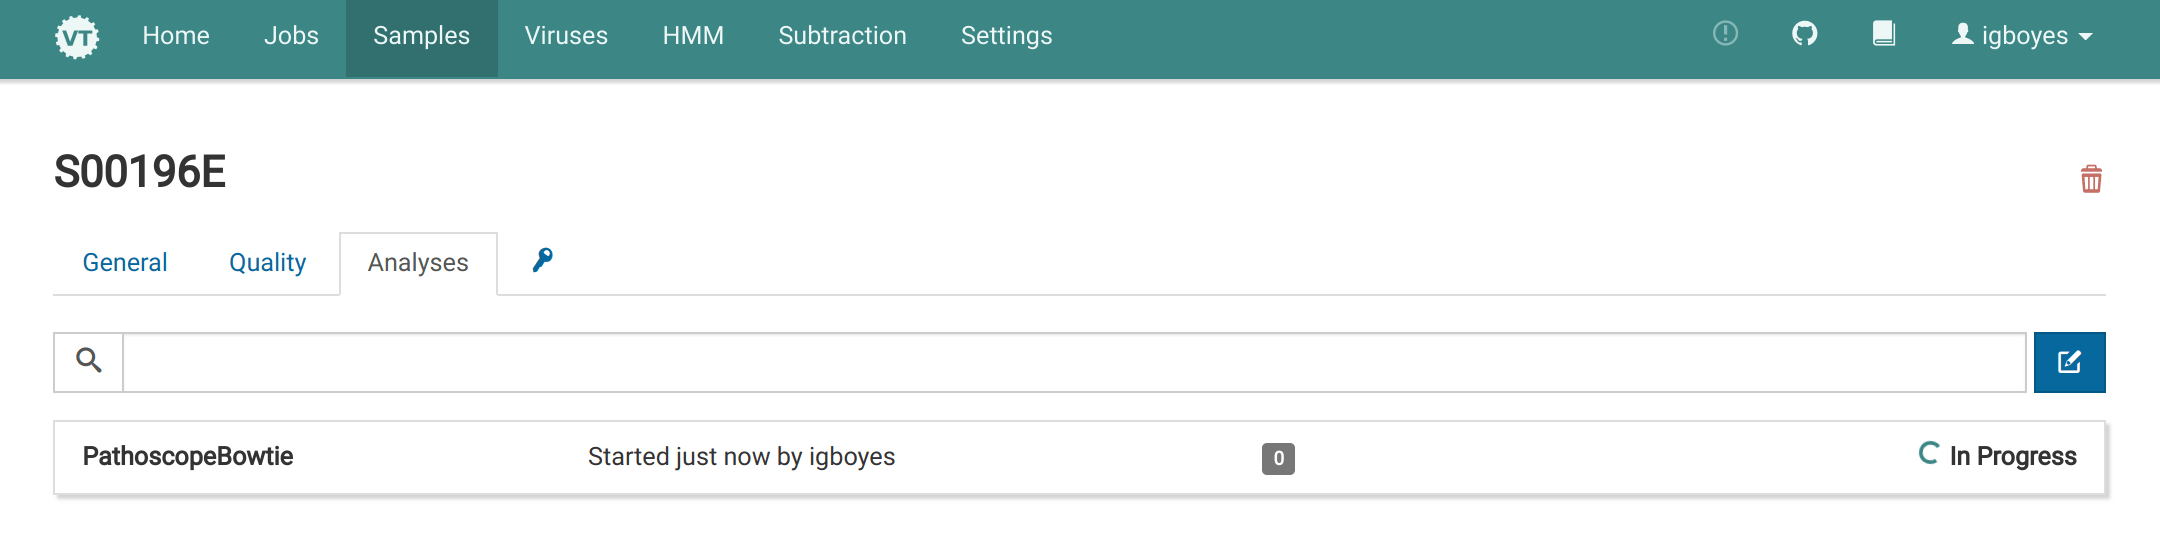
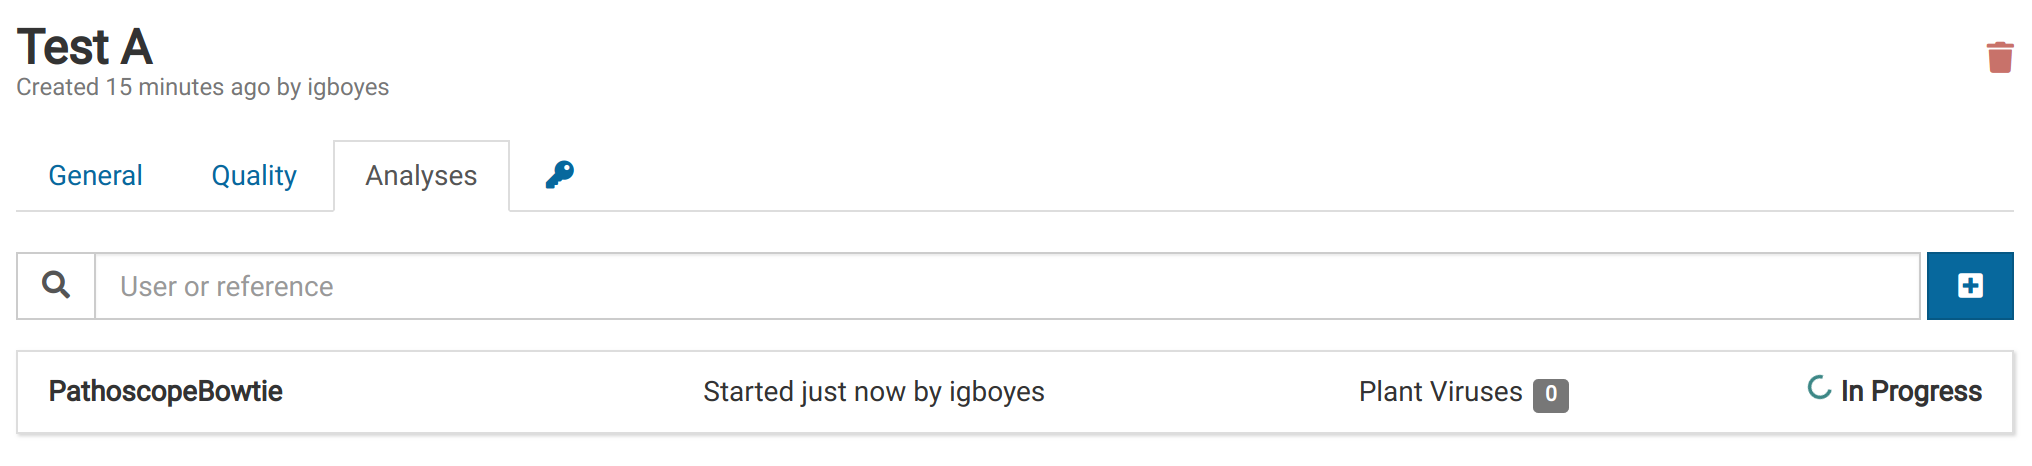
Update Pathoscope tutorial

diff --git a/content/docs/manual/tut_pathoscope/index.md b/content/docs/manual/tut_pathoscope/index.md
@@ -7,41 +7,45 @@ menu:
     weight: 50
 ---
 
-This tutorial assumes you have already [created a sample](/docs/manual/tut_create_sample/), [created and built a virus database](/docs/manual/tut_build_db/), and [created a subtraction](/docs/manual/tut_create_sub/). You will use these data sources to run a bioinformatic pipeline for detecting, in a sample, known viruses from your virus database.
+This tutorial assumes you have already [created a sample](/docs/manual/tut_sample/), [created and built a reference](/docs/manual/tut_reference/), and [created a subtraction](/docs/manual/tut_subtraction/). You will use these data sources to run a bioinformatic pipeline for detecting, in a sample, known viruses from your virus database.
 
 # Starting an Analysis Job
 
-1. Navigate to the _Analyses_ tab for one of your existing samples.
-   !["Empty analysis list](empty.png)
+1. Navigate to the _Samples_ view.
+   ![Samples List View](samples.png)
 
-2. Click <i class="fa fa-edit"></i> to open the analysis creation dialog, select PathoscopeBowtie, and click <i class="fa fa-play"></i> **Start**.
-   !["Analysis dialog"](dialog.png)
+2. Click on a sample. You will see the general information for the sample.
+   ![Sample General](general.png)
 
-3. The dialog will close and you will immediately see your new analysis appear in the list.
-   !["Pathoscope running"](running.png)
+3. Navigate to the _Analyses_ tab. You should see an empty list if you haven't already created an analysis for this sample.
+   !["Empty Analysis List](empty.png)
 
-4. When the analysis is complete, the list item will look like this:
-   !["Pathoscope complete"](complete.png)
+4. Click <i class="fa fa-plus-square"></i> to open the analysis creation dialog, select PathoscopeBowtie and a refernece to search against, and click <i class="fa fa-play"></i> **Start**.
+   !["Analysis Dialog"](dialog.png)
 
-5. In the _Samples_ view, you will notice the sample entry is tagged to show that a Pathoscope analysis has been completed.
-   !["Pathoscope sample tag"](tag.png)
+5. The dialog will close and you will immediately see your new analysis appear in the list.
+   !["Pathoscope Running"](running.png)
+
+6. When the analysis is complete, the list item will look like this:
+   !["Pathoscope Complete"](ready.png)
+
+7. In the _Samples_ view, you will notice the sample entry is tagged to show that a Pathoscope analysis has been completed.
+   !["Pathoscope Sample Tag"](tag.png)
 
 # Viewing Pathoscope Results
 
-1. Click your recently created analysis in the analysis list. You should see something like this:
-   !["Pathoscope sample tag"](initial.png)
+1. Carrying on from the previous section, click on your recently created analysis. The list shows the viruses Virtool thinks are likely to be in the sample.
+   ![Filtered](filtered.png)
 
-2. The list shows the viruses Virtool thinks are likely to be in the sample. Viruses with low coverage or weight (relative abundance) are filtered out. They can be made visible by clicking <i class="fa fa-filter"></i>.
-   !["Pathoscope unfiltered"](unfiltered.png)
+2. By default, viruses with low coverage or weight (relative abundance) are filtered out. They can be made visible by clicking <i class="fa fa-filter"></i>.
+   ![Unfiltered](unfiltered.png)
 
 3. Clicking a virus shows sequencing coverage charts for the isolates that may be in your sample.
-   !["Pathoscope coverage filtered"](coverage_filtered.png)
+   !["Pathoscope Coverage Filtered"](coverage_filtered.png)
 
-   Deep, wide coverage of an isolate is indicative of an infection.
+   - Deep, wide coverage of an isolate is indicative of an infection.
+   - Shallow, wide, and broken coverage is suggestive of intra-plate contamination. Hits due to contamination also typically have low weights.
+   - Isolates with high weight, and deep localized coverage are typical of low-complexity or host-similar regions in the isolate genome and do not indicate true infections.
 
-   Shallow, wide, and broken coverage is suggestive of intra-plate contamination. Hits due to contamination also typically have low weights.
-
-   Isolates with high weight, and deep localized coverage are typical of low-complexity or host-similar regions in the isolate genome and do not indicate true infections.
-
-4. Filtering of low weight and coverage isolates is toggleable by clicking <i class="fa fa-filter"></i>. Virtool excels at detecting virus infections at the isolate-level. In this case, it is clear that **Isolate 1050-02** is the infective isolate rather than **Isolate GRSPaV-MG** or **Internal 16GVP002**.
+4. Filtering of low weight and coverage isolates is toggled by clicking <i class="fa fa-filter"></i>. Virtool excels at detecting virus infections at the isolate-level. In this case, it is clear that **Isolate Q65b** is the infective isolate rather than **Isolate Nanjing**.
    !["Pathoscope unfiltered"](coverage_unfiltered.png)
